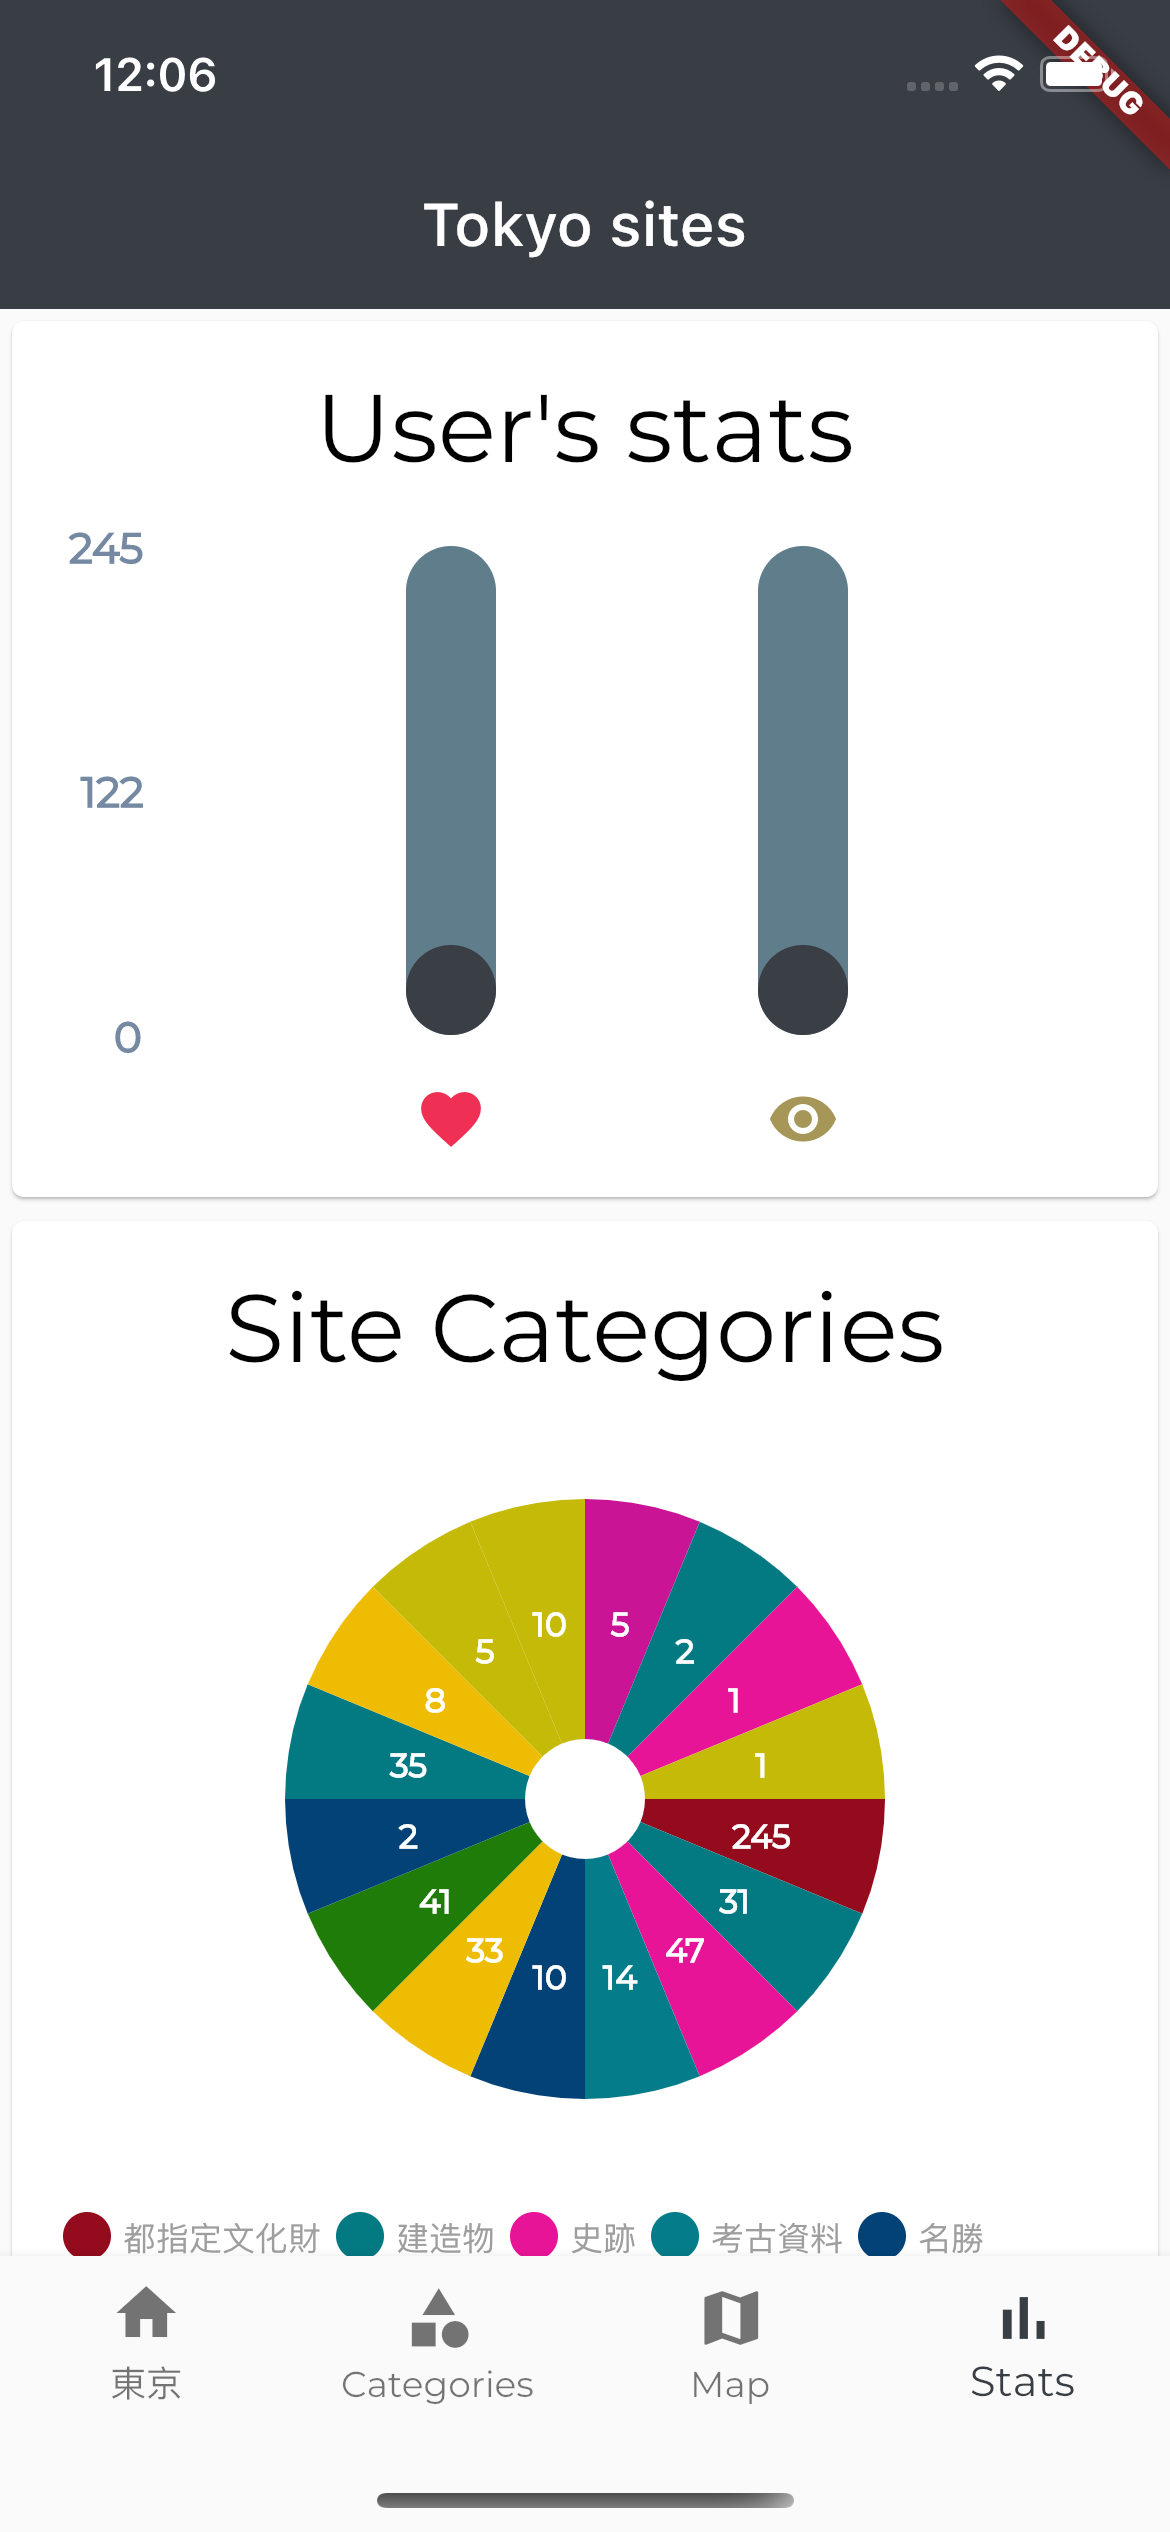
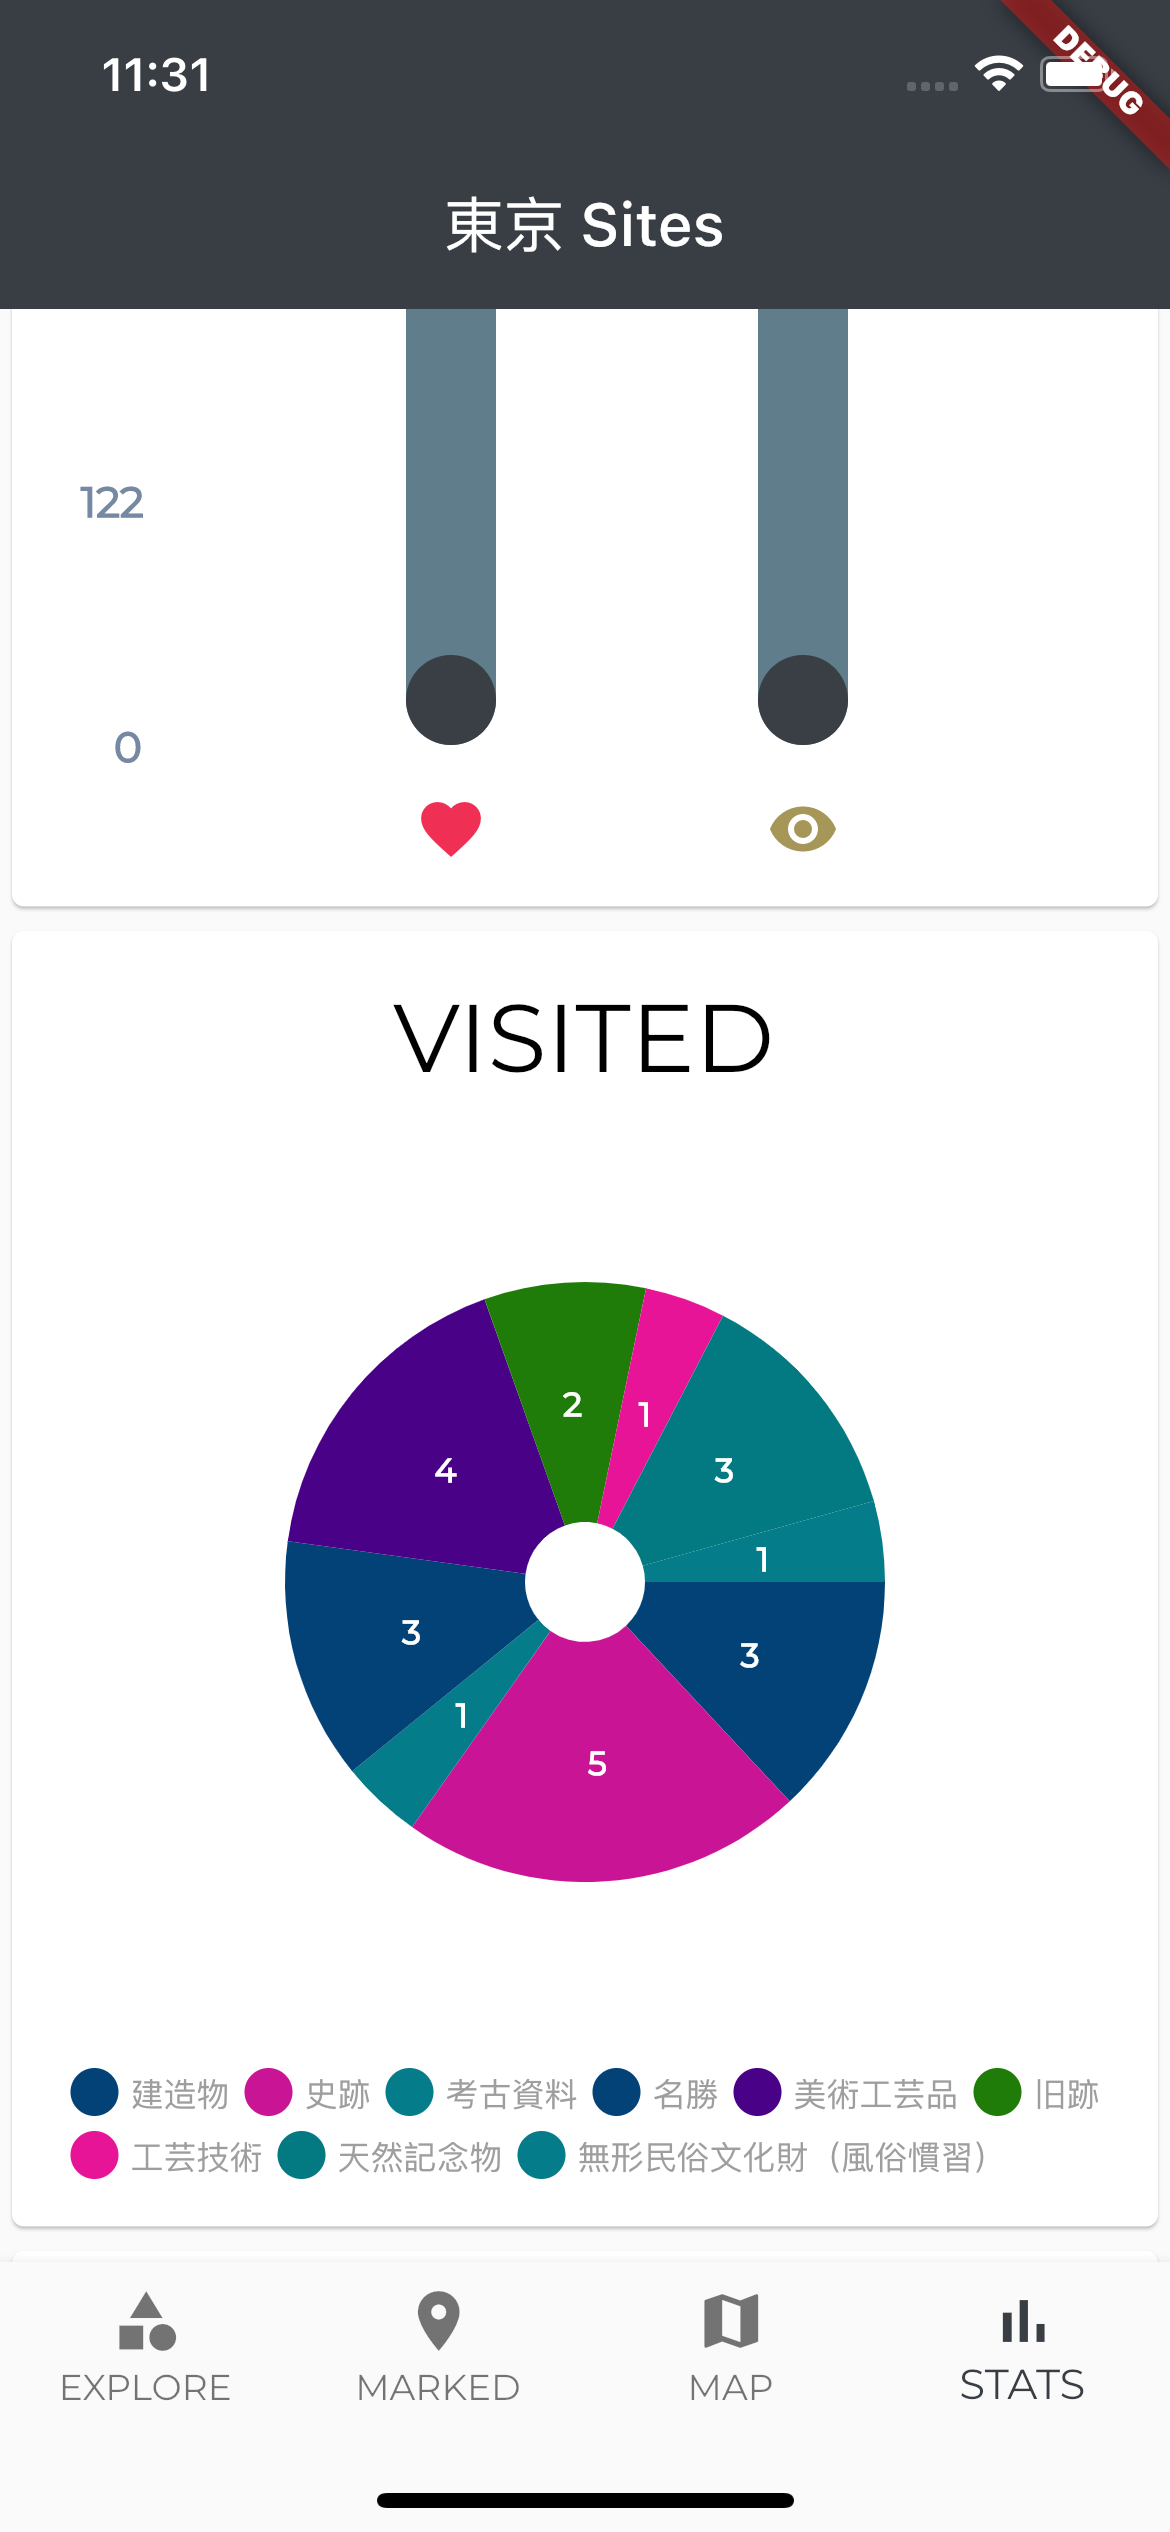
Update screenshots

diff --git a/README.md b/README.md
@@ -24,7 +24,10 @@ The google maps api key will probably not work because I restricted it. If it do
 ## Data source
 [Tokyo open data portal](https://portal.data.metro.tokyo.lg.jp/opendata-api/)
 
-## Current screenshots (2022/6/17)
+## Current screenshots (2022/7/2)
 |List  |Map  |Detail  |  Stats  |
 |----|-----|------|------|
-|<img src="/screenshots/list.png" width="200">|<img src="/screenshots/map.png" width="200">|<img src="/screenshots/detail.png" width="200">|<img src="/screenshots/stats.png" width="200">|
+|<img src="/screenshots/list.png" width="200">|<img src="/screenshots/map.png" width="200">|<img src="/screenshots/detail.png" width="200">|<img src="/screenshots/stats.png" width="200">|  
+|Dashboard  |Marked  |Loading | 
+|----|-----|------|
+|<img src="/screenshots/dashboard.png" width="200">|<img src="/screenshots/marked.png" width="200">|<img src="/screenshots/loading.png" width="200">|
